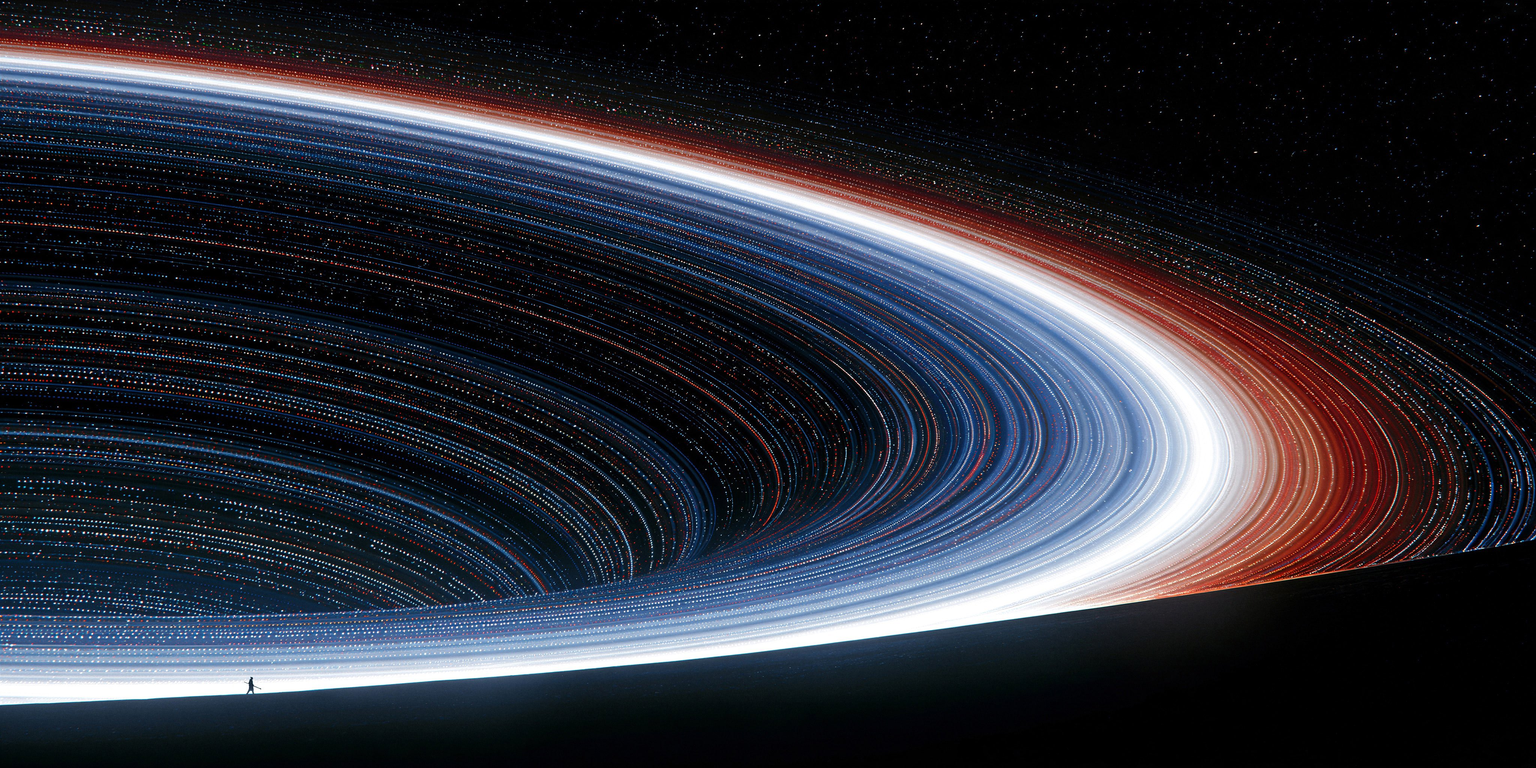
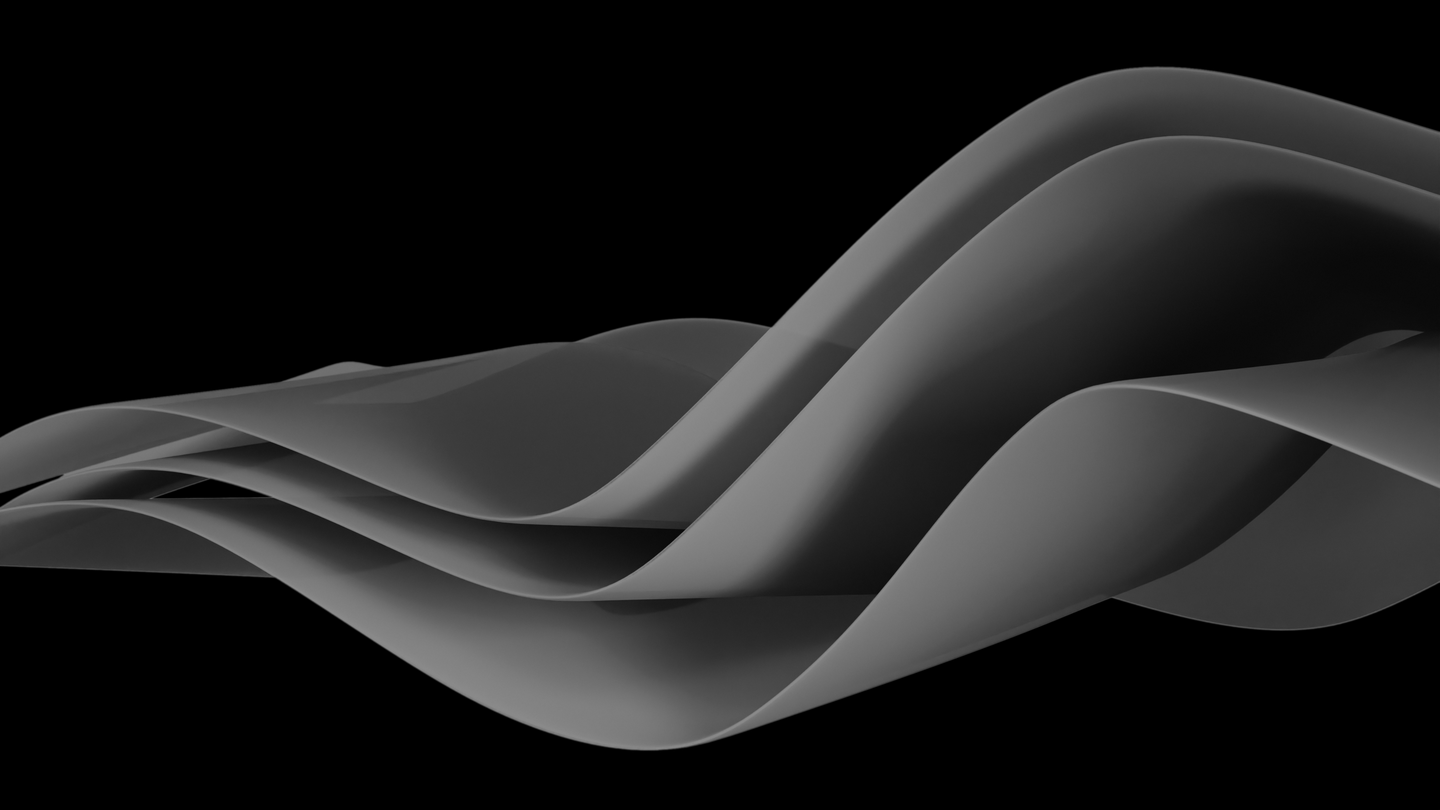
Black

diff --git a/waybar/css/base.css b/waybar/css/base.css
@@ -1,12 +1,12 @@
-@define-color bar-bg #131313;
-@define-color group-bg #191919;
+@define-color bar-bg #000000;
+@define-color group-bg #111111;
 @define-color text whitesmoke;
 @define-color hover-bg #262626;
 
 * {
     border: none;
     border-radius: 0;
-    font-size: 14px;
+    font-size: 15px;
     min-height: 0;
     font-family: "icomoon", "JetBrainsMono Nerd Font", sans-serif;
 
